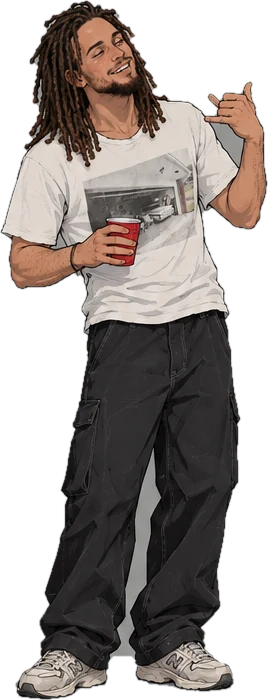
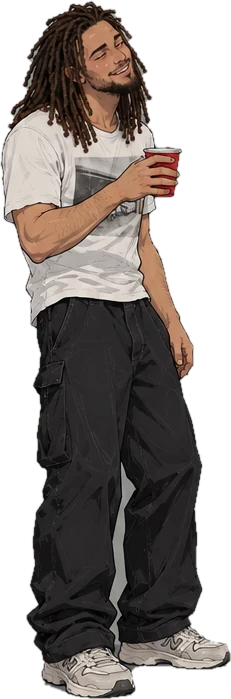
Last call : 2e planche de Brooke (urinoir de dos, content et vide plus subtils, il pointe), il regarde Cam sur « I gotta pee »

diff --git a/chars.js b/chars.js
@@ -1,1 +1,1 @@
-window.SPRITES = {"amare":{"refH":662,"poses":{"angry":[293,649],"explaining":[293,647],"holding":[241,655],"listen":[284,662],"surprised":[282,659],"thinking":[278,658]}},"brooke":{"refH":709,"poses":{"drunk_happy":[268,700],"drunk_listen":[252,707],"drunk_sad":[224,708],"drunk_talk":[290,703],"texting":[222,703],"thinking":[206,709]}},"candy":{"refH":662,"poses":{"angry":[293,649],"explaining":[293,647],"holding":[241,655],"listen":[284,662],"surprised":[282,659],"thinking":[278,658]}},"isa_noir":{"refH":692,"poses":{"angry":[259,689],"explaining":[302,692],"holding":[205,676],"listen":[235,684],"surprised":[256,681],"thinking":[230,685]}},"isa_nuit":{"refH":692,"poses":{"angry":[259,689],"explaining":[302,692],"holding":[205,676],"listen":[235,684],"surprised":[256,681],"thinking":[230,685]}},"isa_or":{"refH":692,"poses":{"angry":[259,689],"explaining":[302,692],"holding":[205,676],"listen":[235,684],"surprised":[256,681],"thinking":[230,685]}},"james":{"refH":707,"poses":{"angry":[259,681],"explaining":[276,688],"holding":[215,689],"listen":[279,706],"surprised":[271,700],"thinking":[227,707]}},"james_noir":{"refH":707,"poses":{"angry":[259,681],"explaining":[276,688],"holding":[215,689],"listen":[279,706],"surprised":[271,700],"thinking":[227,707]}},"justin":{"refH":704,"poses":{"angry":[268,685],"explaining":[268,693],"hit":[266,640],"holding":[220,694],"ko":[315,210],"listen":[266,695],"phone_call":[270,698],"phone_shock":[235,700],"punch":[300,644],"surprised":[264,699],"texting":[247,698],"thinking":[242,704]}},"justin_b":{"refH":704,"poses":{"angry":[268,685],"explaining":[268,693],"hit":[266,640],"holding":[220,694],"ko":[315,210],"listen":[266,695],"phone_call":[270,698],"phone_shock":[235,700],"punch":[300,644],"surprised":[264,699],"texting":[247,698],"thinking":[242,704]}},"melissa":{"refH":692,"poses":{"angry":[259,689],"explaining":[302,692],"holding":[205,676],"listen":[235,684],"surprised":[256,681],"thinking":[230,685]}},"ruby":{"refH":692,"poses":{"angry":[259,689],"explaining":[302,692],"holding":[205,676],"listen":[235,684],"surprised":[256,681],"thinking":[230,685]}}};
+window.SPRITES = {"amare":{"refH":662,"poses":{"angry":[293,649],"explaining":[293,647],"holding":[241,655],"listen":[284,662],"surprised":[282,659],"thinking":[278,658]}},"brooke":{"refH":709,"poses":{"drunk_happy":[231,699],"drunk_listen":[252,707],"drunk_point":[226,698],"drunk_sad":[240,695],"drunk_talk":[290,703],"pee":[236,693],"pee_look":[220,698],"pee_relief":[225,700],"texting":[222,703],"thinking":[206,709]}},"candy":{"refH":662,"poses":{"angry":[293,649],"explaining":[293,647],"holding":[241,655],"listen":[284,662],"surprised":[282,659],"thinking":[278,658]}},"isa_noir":{"refH":692,"poses":{"angry":[259,689],"explaining":[302,692],"holding":[205,676],"listen":[235,684],"surprised":[256,681],"thinking":[230,685]}},"isa_nuit":{"refH":692,"poses":{"angry":[259,689],"explaining":[302,692],"holding":[205,676],"listen":[235,684],"surprised":[256,681],"thinking":[230,685]}},"isa_or":{"refH":692,"poses":{"angry":[259,689],"explaining":[302,692],"holding":[205,676],"listen":[235,684],"surprised":[256,681],"thinking":[230,685]}},"james":{"refH":707,"poses":{"angry":[259,681],"explaining":[276,688],"holding":[215,689],"listen":[279,706],"surprised":[271,700],"thinking":[227,707]}},"james_noir":{"refH":707,"poses":{"angry":[259,681],"explaining":[276,688],"holding":[215,689],"listen":[279,706],"surprised":[271,700],"thinking":[227,707]}},"justin":{"refH":704,"poses":{"angry":[268,685],"explaining":[268,693],"hit":[266,640],"holding":[220,694],"ko":[315,210],"listen":[266,695],"phone_call":[270,698],"phone_shock":[235,700],"punch":[300,644],"surprised":[264,699],"texting":[247,698],"thinking":[242,704]}},"justin_b":{"refH":704,"poses":{"angry":[268,685],"explaining":[268,693],"hit":[266,640],"holding":[220,694],"ko":[315,210],"listen":[266,695],"phone_call":[270,698],"phone_shock":[235,700],"punch":[300,644],"surprised":[264,699],"texting":[247,698],"thinking":[242,704]}},"melissa":{"refH":692,"poses":{"angry":[259,689],"explaining":[302,692],"holding":[205,676],"listen":[235,684],"surprised":[256,681],"thinking":[230,685]}},"ruby":{"refH":692,"poses":{"angry":[259,689],"explaining":[302,692],"holding":[205,676],"listen":[235,684],"surprised":[256,681],"thinking":[230,685]}}};

diff --git a/bar.js b/bar.js
@@ -16,13 +16,15 @@ window.POSE_REST = { drunk_talk: 'drunk_listen', drunk_happy: 'drunk_listen', dr
 // the stand-in is a recolour: same sheet, so same facing
 Object.assign(FACE, { james_noir: FACE.james });
 GALLERY.push({ sprite: 'james_noir', name: 'Stranger', recolor: 'james' });
-// Brooke: his first sheet (bar, 23/10) from his photo; what it doesn't have yet plays with his closest pose
-FACE.brooke = { drunk_listen: 'r', drunk_talk: 'r', drunk_happy: 'r', drunk_sad: 'f', texting: 'f', thinking: 'r' };
+// Brooke: 2 sheets from his photo (23/10): the bar one, then the bathroom one (which also redid his happy and sad,
+// subtler); what he doesn't have yet plays with his closest pose
+FACE.brooke = { drunk_listen: 'r', drunk_talk: 'r', drunk_happy: 'r', drunk_sad: 'r', drunk_point: 'r', texting: 'f', thinking: 'r',
+  pee: 'f', pee_relief: 'f', pee_look: 'r' };
 window.POSE_ALIAS = { brooke: {
   listen: 'drunk_listen', explaining: 'drunk_talk', holding: 'drunk_sad', angry: 'drunk_talk', surprised: 'thinking',
-  drunk_flirt: 'drunk_talk', pee: 'drunk_sad', pee_relief: 'drunk_listen', pee_look: 'drunk_listen', phone_shock: 'texting',
+  drunk_flirt: 'drunk_point', phone_shock: 'texting',
 } };
-GALLERY.splice(1, 0, { sprite: 'brooke', name: 'Brooke', src: 'perso_brooke', ref: ['brooke_bar'] });
+GALLERY.splice(1, 0, { sprite: 'brooke', name: 'Brooke', src: 'perso_brooke', ref: ['brooke_bar', 'brooke_toilettes'] });
 
 // ---------- decors, rectangles only (decor px) ----------
 const R = (x, y, w, h, color, more) => ({ x, y, w, h, color, ...more });
@@ -443,7 +445,7 @@ window.BAR = [
     ] },
     { t: 'Cheers to nothing.', intent: 'with him', then: [
       say('pa', 'drunk_happy', 'Cheers to nothing tomorrow.', { to: 'pb' }),
-      one('pb'), say('pb', 'drunk_happy', 'THAT’S my brother.', { to: 'pa' }),
+      one('pb'), say('pb', 'drunk_point', 'THAT’S my brother.', { to: 'pa' }),
       one('cam'), say('cam', 'amused', 'You two are gonna die in this bar.', { to: 'pa' }),
     ] },
   ] },
@@ -480,7 +482,7 @@ window.BAR = [
   say('pb', 'drunk_flirt', 'Yeah. Just…', { to: 'cam' }),
   one('cam'), { poses: { cam: 'awkward' } }, hush(1600),
   one('pb'), { poses: { pb: 'drunk_sad' } }, hush(1000),
-  say('pb', 'drunk_sad', '…I gotta pee.'),
+  say('pb', 'drunk_sad', '…I gotta pee.', { to: 'cam' }),
   { exit: 'pb' }, { aside: { pa: false } },
   // from here to the end, each one plays his own scene on his own phone and only sees what his character sees;
   // a spectator follows Brooke; solo plays the counter up to "twenty minutes later", then Brooke, then the end

diff --git a/index.html b/index.html
@@ -289,10 +289,10 @@ body.watch #choices button, body.watch .looks button { pointer-events: none; }
   <div id="qrCard" hidden><div id="qrBox"></div></div>
 </div>
 
-<script src="chars.js?v=20261023150235"></script>
-<script src="story.js?v=20261023150235"></script>
-<script src="play.js?v=20261023150235"></script>
-<script src="bar.js?v=20261023150235"></script>
+<script src="chars.js?v=20261023152105"></script>
+<script src="story.js?v=20261023152105"></script>
+<script src="play.js?v=20261023152105"></script>
+<script src="bar.js?v=20261023152105"></script>
 <script>
 const $ = (s) => document.querySelector(s);
 const stage = $('#stage'), world = $('#world'), bgImg = $('#bgimg'), backEl = $('#backdrop'), castEl = $('#cast'), frontEl = $('#front'),
@@ -1028,7 +1028,7 @@ function roomCode() {
 // the game's version (tools/site.py stamps it). Two phones on different versions can't play one story together, and
 // GitHub keeps the old one in a phone's cache ~10 min: a phone that hears of a newer version reloads to it, between
 // stories (never in the middle of one)
-const BUILD = '20261023150235';
+const BUILD = '20261023152105';
 function newer(v) {
   if (BUILD === 'dev' || !v || v === 'dev' || v <= BUILD || newer.done) return;
   if (!['#who', '#hub', '#lobby', '#wait', '#end'].includes(screen)) return;
